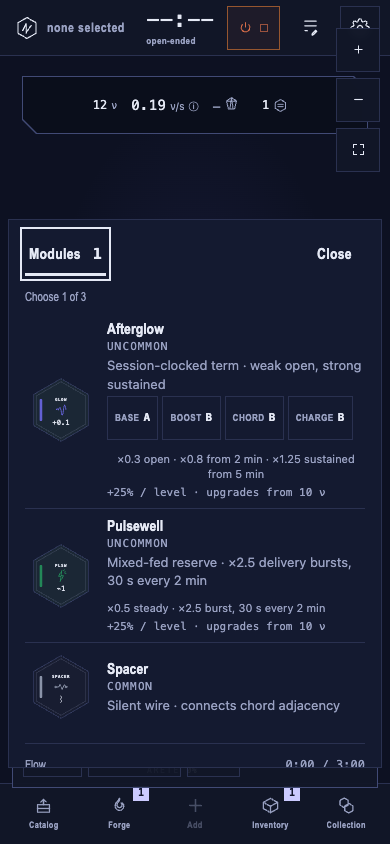
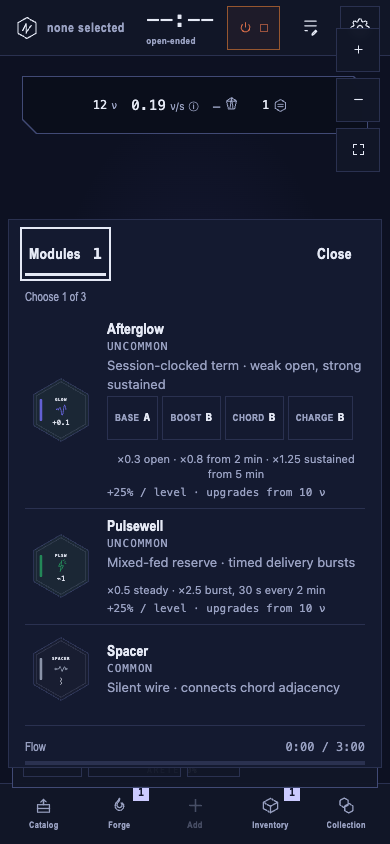
Re-capture the temporal-profile evidence from the verified commit
Provenance now records the reviewed commit itself (5cb3531d, clean tree)
instead of the pre-commit parent the first pass served, and the draft
capture reflects the review's figure-free Pulsewell effect line.

diff --git a/docs/evidence/372/README.md b/docs/evidence/372/README.md
@@ -2,8 +2,10 @@
 
 Captured from the verified checkout at `http://localhost:5173` (provenance
 checked via the dev endpoint before every capture: worktree
-`t3code-eb03e114`, branch `t3code/flowsynth-issue-372`, commit `6f876769` —
-matching `git rev-parse` in the edited checkout). The browser pass ran in a
+`t3code-eb03e114`, branch `t3code/flowsynth-issue-372`, commit `5cb3531d`
+— matching `git rev-parse HEAD` in the edited checkout, with a clean tree
+at capture time; the commit below it adds only these evidence files).
+The browser pass ran in a
 Playwright-driven Chrome; the thread's inline preview screenshot transport
 was unavailable (its snapshot client failed on every attempt), so the
 captures below come from scripted Chrome against the same verified server.
